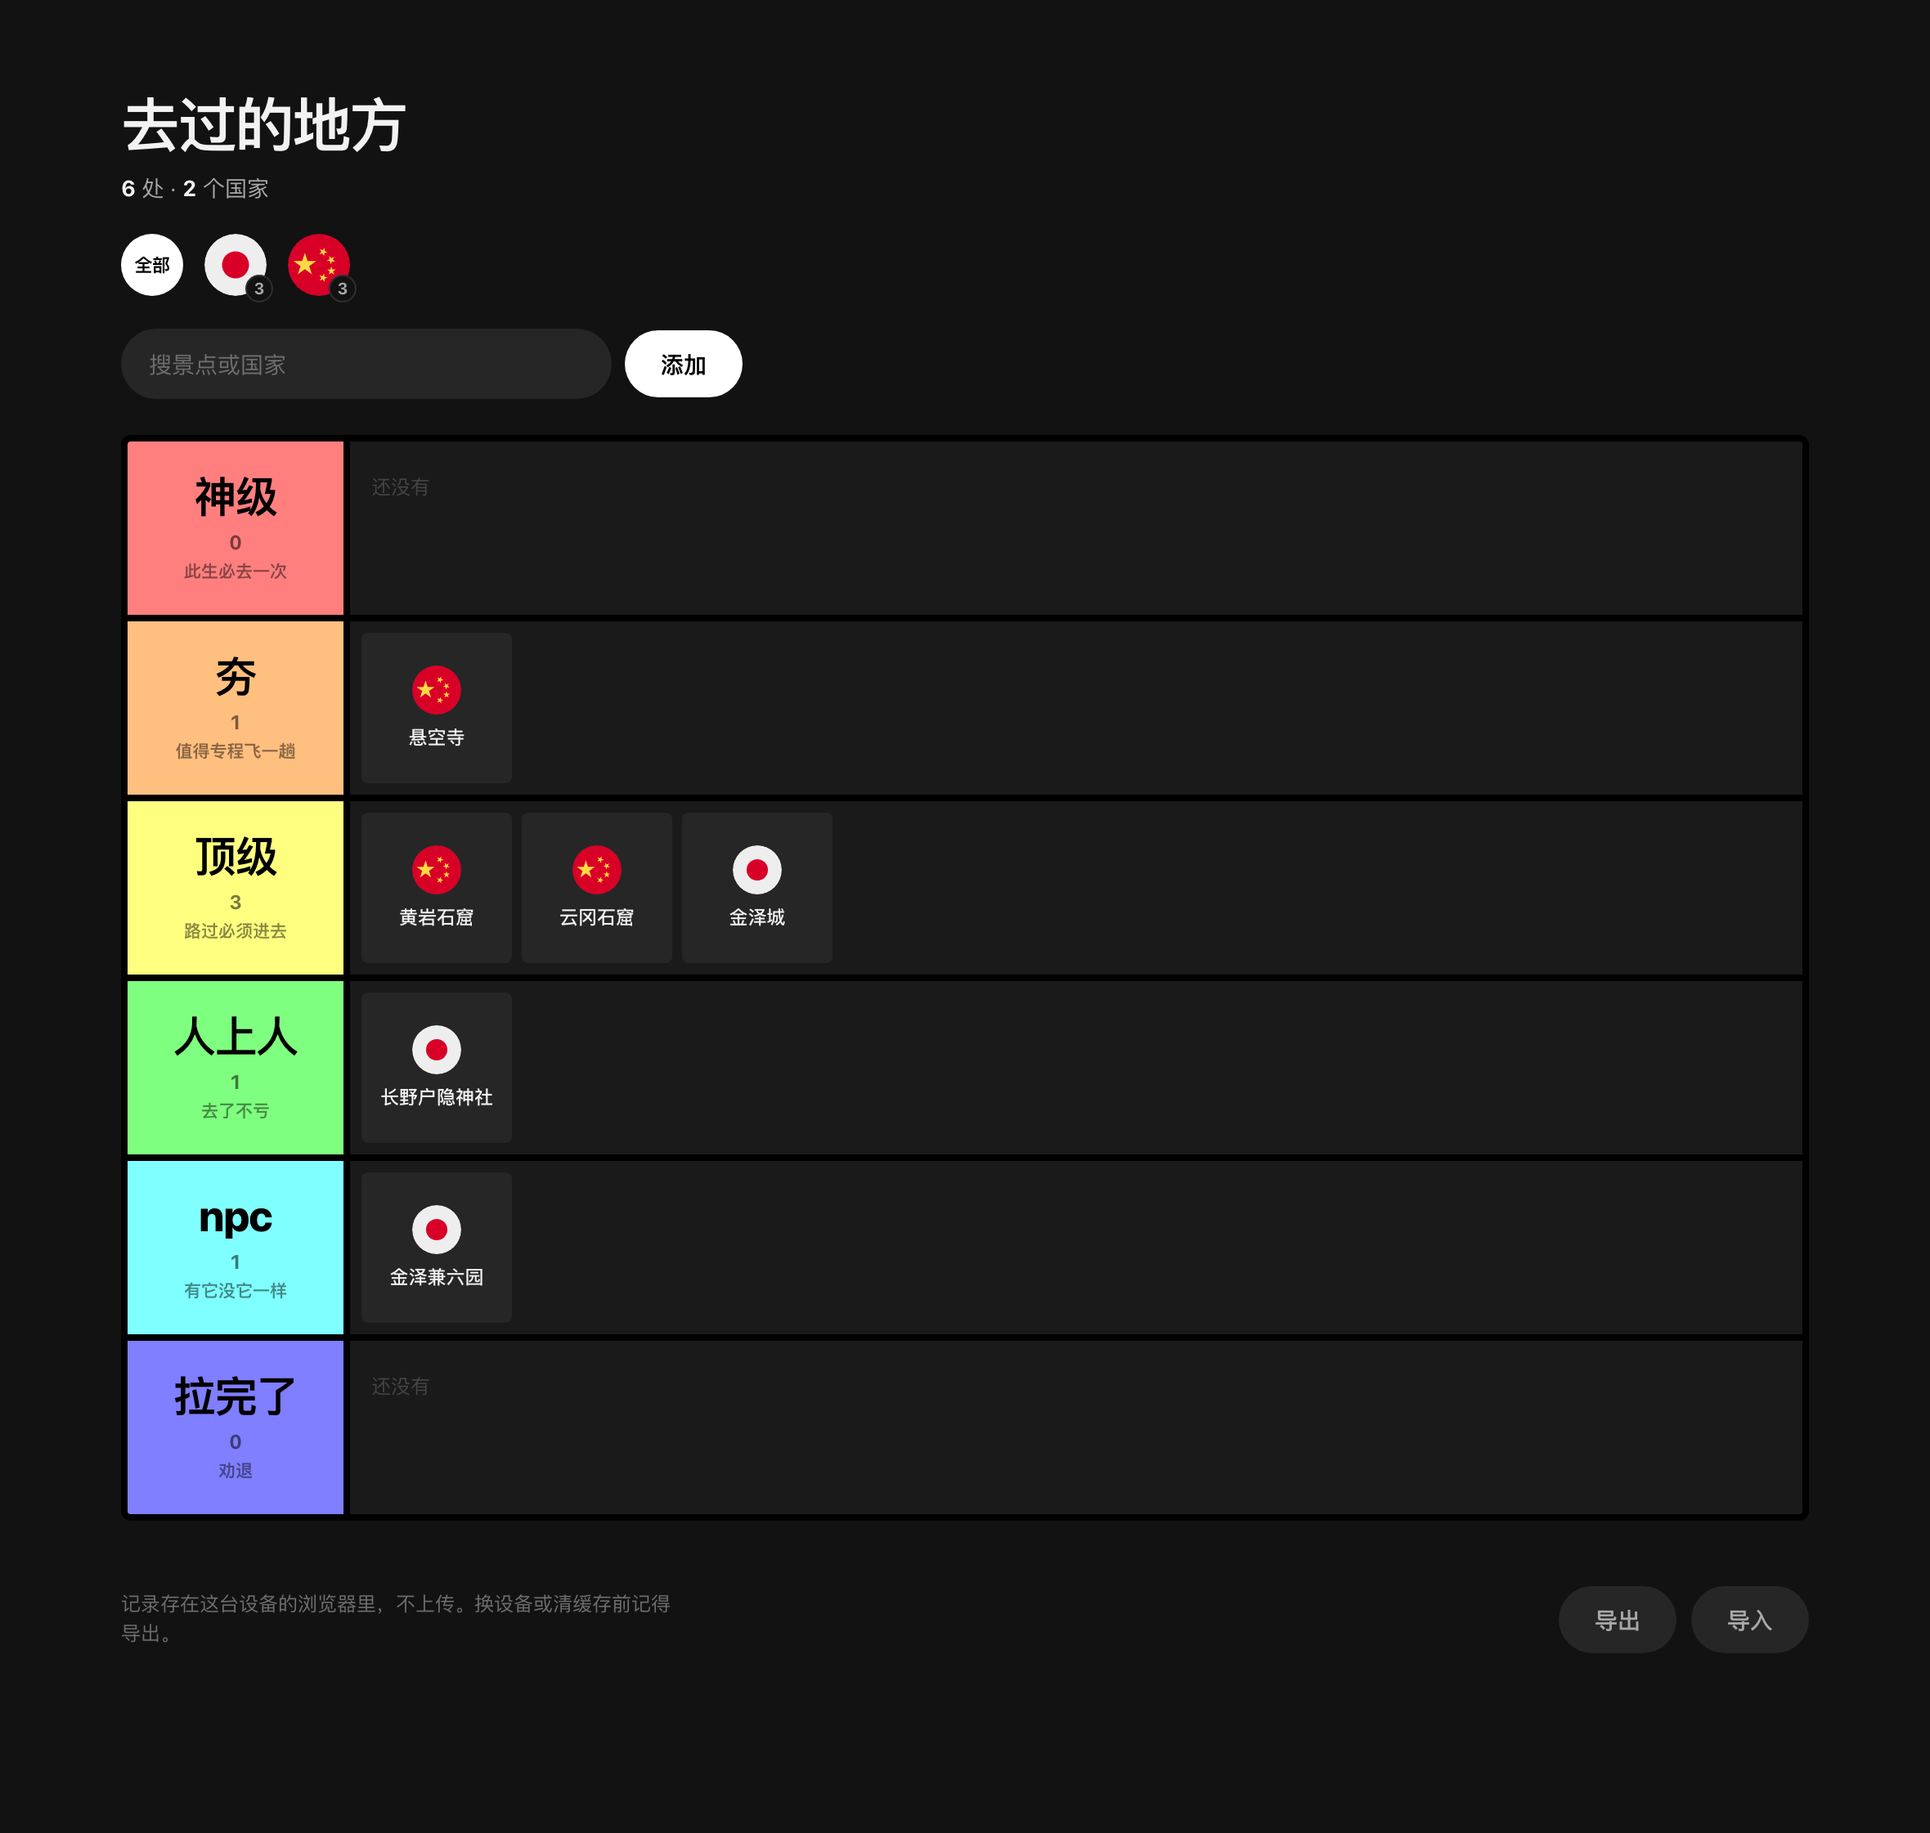
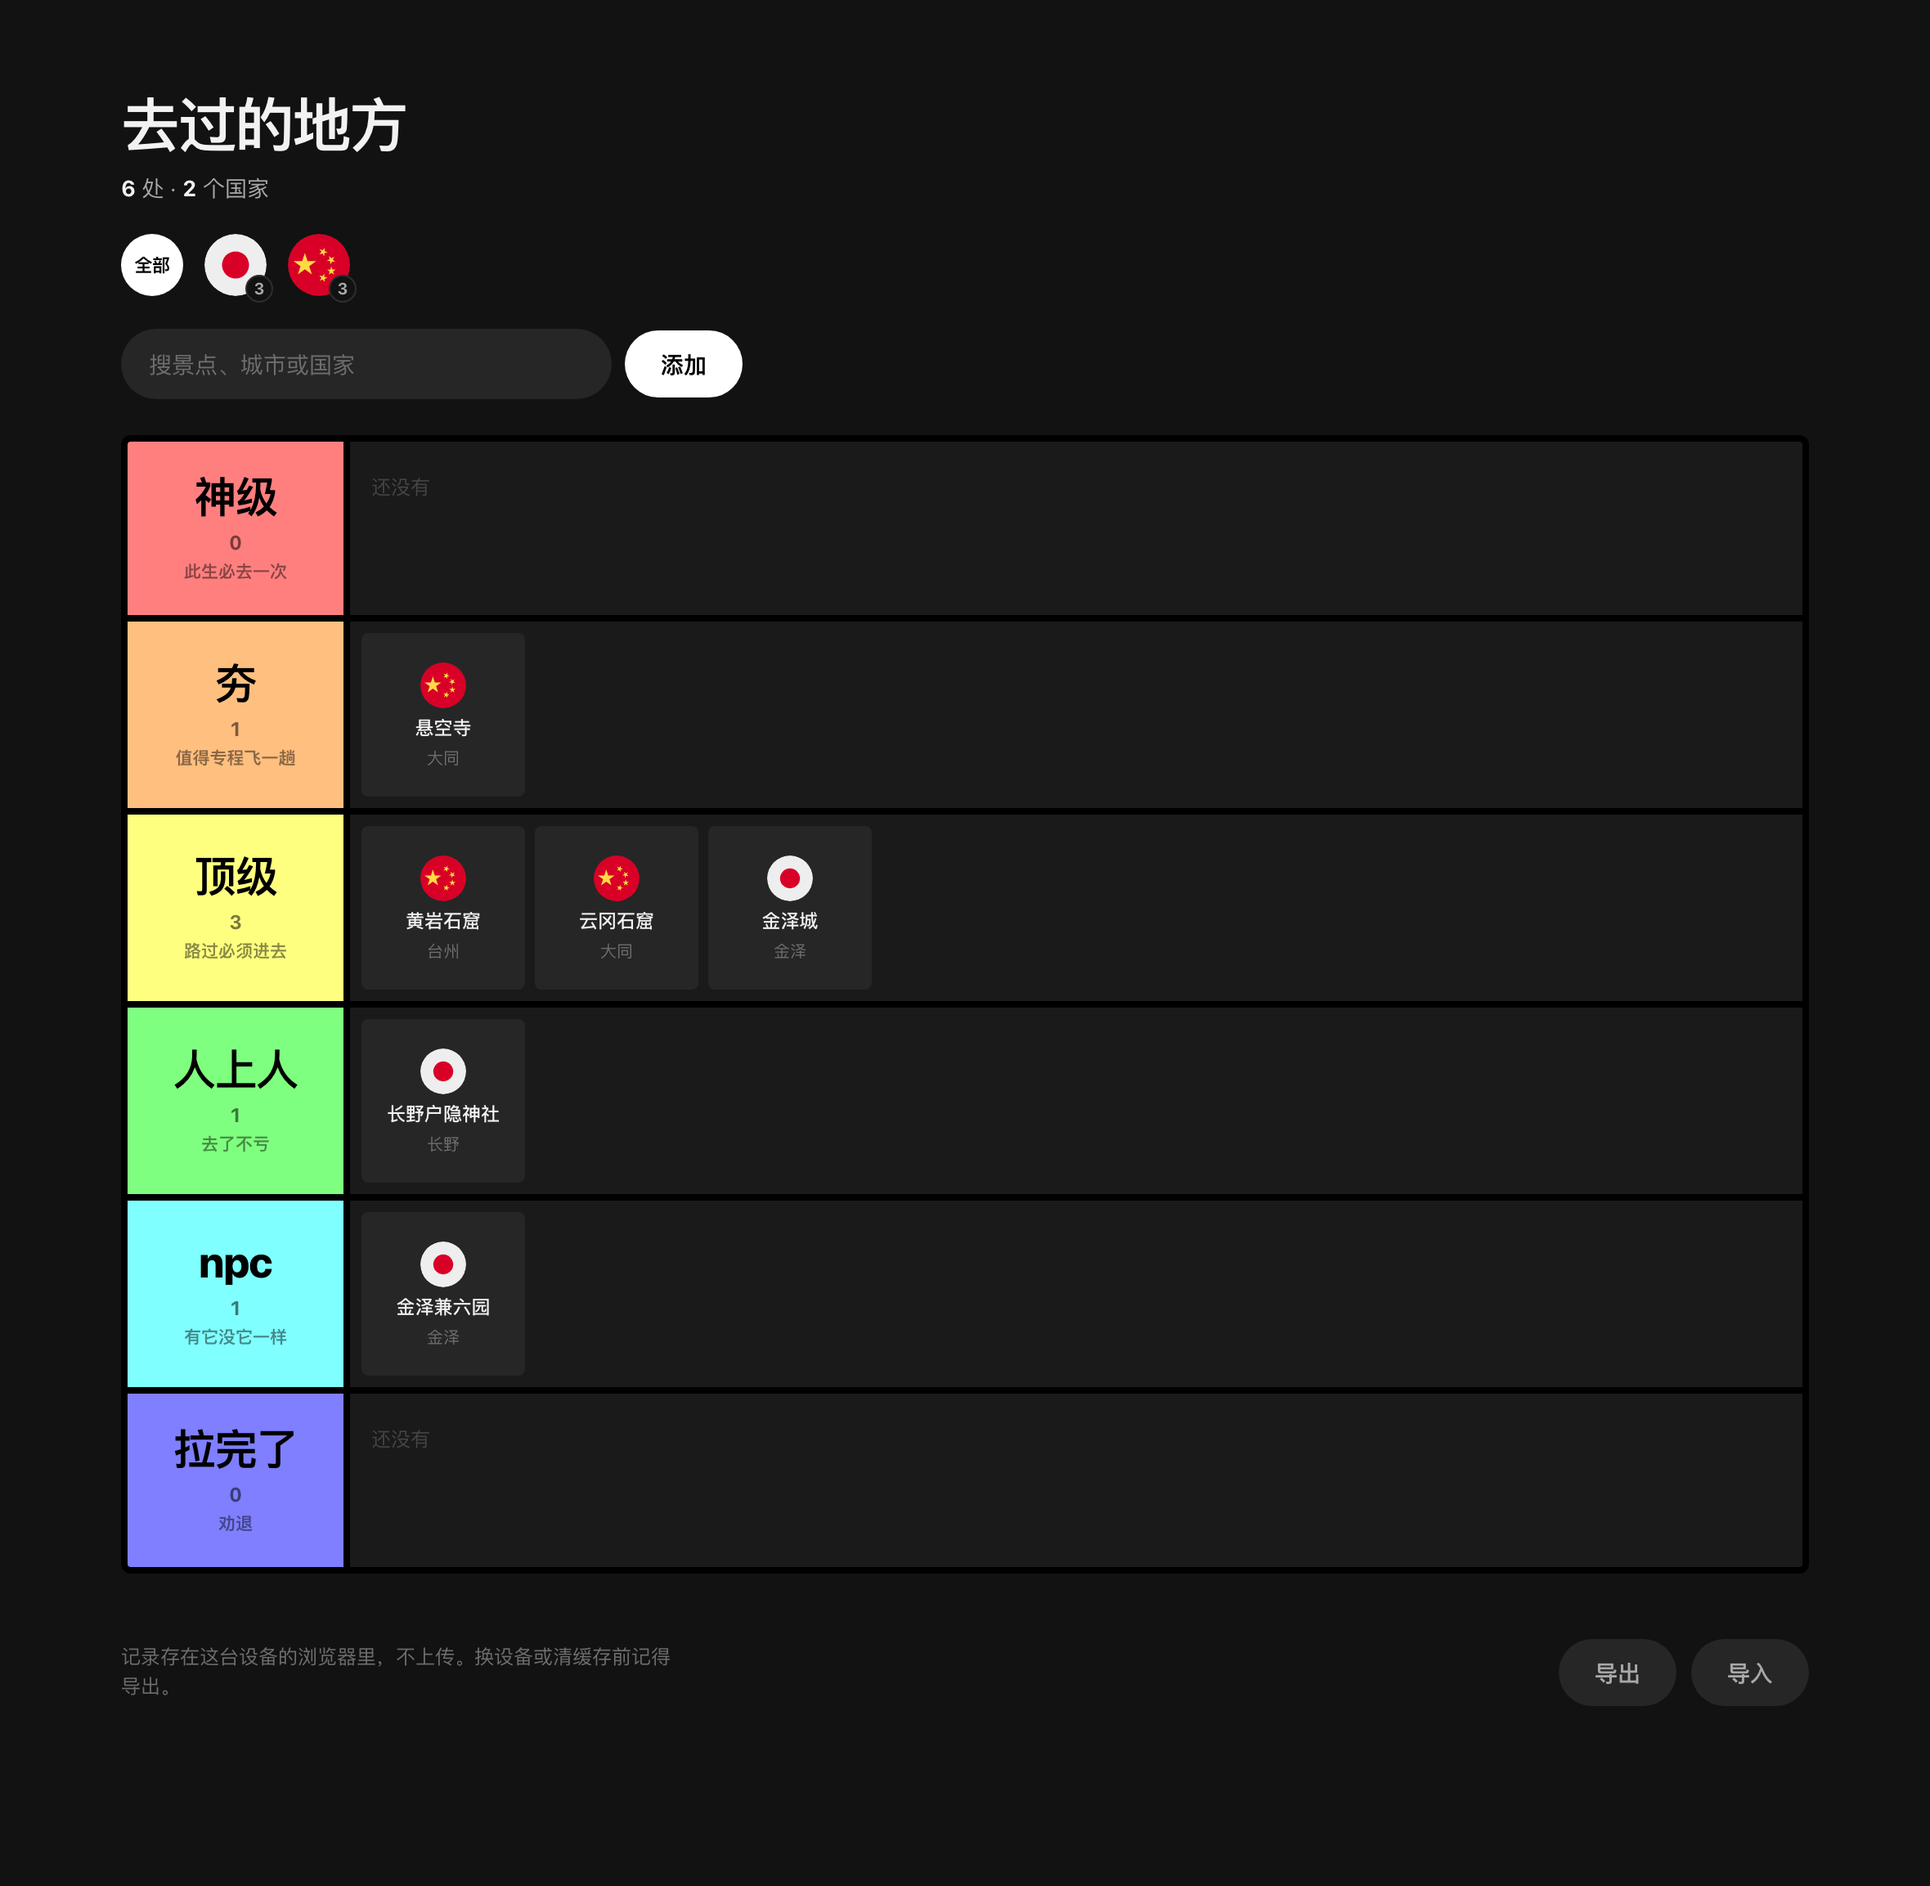
每条记录加上城市
6 条已填好：黄岩石窟—台州、云冈石窟—大同、悬空寺—大同、
长野户隐神社—长野、金泽城—金泽、金泽兼六园—金泽。

- 数据模型加 city，spots.js / 草稿 / 导出的 spots.js 都带上
- 方块从 92×92 放大到 100×100，国旗下方名称、名称下方城市（小一号、灰）
  移动端 88×92
- 弹窗加「城市」输入框，搜索把城市一并算进去
- 老数据迁移：旧的 where/place（形如「浙江 南京」）取末段升为城市
- 录入模板加「城市」列，并预填现有 6 条

测试加到 55 项全过，新增：每条已发布记录都有城市、方块上渲染城市、
没填城市显示破折号、按城市搜索、城市存进草稿、
超长城市在方块内截断不撑破格子（用够长的串验过确实触发截断）。

diff --git a/index.html b/index.html
@@ -101,16 +101,20 @@
   .lane{background:var(--lane);display:flex;flex-wrap:wrap;gap:6px;padding:7px;
         align-content:flex-start;min-height:106px}
   .tile{
-    width:92px;height:92px;background:var(--tile);border:0;border-radius:4px;cursor:pointer;
-    display:flex;flex-direction:column;align-items:center;justify-content:center;gap:7px;
+    width:100px;height:100px;background:var(--tile);border:0;border-radius:4px;cursor:pointer;
+    display:flex;flex-direction:column;align-items:center;justify-content:center;gap:5px;
     padding:7px 5px;transition:background .12s;
   }
   .tile:hover{background:var(--tile-h)}
-  .tile .flag{width:30px;height:30px;border-radius:50%;flex:none;background:var(--tile-h)}
+  .tile .flag{width:28px;height:28px;border-radius:50%;flex:none;background:var(--tile-h)}
   .tile .nm{
     font-size:11.5px;line-height:1.25;color:var(--ink);text-align:center;font-weight:500;
     display:-webkit-box;-webkit-line-clamp:2;-webkit-box-orient:vertical;overflow:hidden;
     word-break:break-all;width:100%;
+  }
+  .tile .ct{
+    font-size:10px;line-height:1.2;color:var(--ink-3);text-align:center;width:100%;
+    white-space:nowrap;overflow:hidden;text-overflow:ellipsis;
   }
   .ph{display:grid;place-items:center;font-size:13px;font-weight:700;color:var(--ink-3)}
   .empty{align-self:center;font-size:12px;color:#454545;padding-left:6px}
@@ -165,7 +169,7 @@
     .label .nm{font-size:19px}
     .label .blurb{display:none}
     .lane{min-height:96px;gap:5px;padding:5px}
-    .tile{width:80px;height:80px}
+    .tile{width:88px;height:92px}
     .picker{grid-template-columns:repeat(3,1fr)}
   }
   @media (prefers-reduced-motion:reduce){*{transition:none!important}}
@@ -179,7 +183,7 @@
     <p class="counts"><b id="n-spots">0</b> 处 · <b id="n-countries">0</b> 个国家</p>
     <div class="wall" id="wall" role="group" aria-label="按国家筛选"></div>
     <div class="bar">
-      <input type="search" id="find" placeholder="搜景点或国家" aria-label="搜索">
+      <input type="search" id="find" placeholder="搜景点、城市或国家" aria-label="搜索">
       <button class="btn primary" id="add">添加</button>
     </div>
     <div class="draft" id="draft" hidden>
@@ -209,6 +213,10 @@
     <div class="field">
       <label for="f-name">名称</label>
       <input type="text" id="f-name" required maxlength="48" placeholder="黄岩石窟" autocomplete="off">
+    </div>
+    <div class="field">
+      <label for="f-city">城市</label>
+      <input type="text" id="f-city" maxlength="24" placeholder="台州" autocomplete="off">
     </div>
     <div class="field">
       <label for="f-country">国家</label>
@@ -283,7 +291,7 @@
   var pick = "";
 
   function hashOf(list){
-    var str = JSON.stringify(list.map(function(x){ return [x.name, x.country, x.tier]; }));
+    var str = JSON.stringify(list.map(function(x){ return [x.name, x.city, x.country, x.tier]; }));
     var h = 5381;
     for(var i=0;i<str.length;i++){ h = ((h<<5) + h + str.charCodeAt(i)) | 0; }
     return String(h);
@@ -313,11 +321,13 @@
   /* 老版本有 place/where（地点）、date/when（时间）、note/said（一句话），已全部取消，读进来即丢弃。
      老记录没有国家，但凡有过地点的一律按中国处理，不对的点开改一下。 */
   function migrate(s){
-    var hadPlace = !!(s.where || s.place);
+    var legacy = String(s.where || s.place || "").trim();   /* 老字段形如「浙江 台州」 */
+    var parts = legacy ? legacy.split(/[\s　]+/) : [];
     return {
       id: s.id || ("p" + (++seq) + "-" + Math.random().toString(36).slice(2,6)),
       name: String(s.name || "未命名"),
-      country: String(s.country || (hadPlace ? "中国" : "")),
+      city: String(s.city || (parts.length ? parts[parts.length - 1] : "")),
+      country: String(s.country || (legacy ? "中国" : "")),
       tier: isTier(s.tier) ? s.tier : "npc"
     };
   }
@@ -335,7 +345,7 @@
 
   function bare(list){
     return list.map(function(s){
-      return { name:s.name, country:s.country, tier:s.tier };
+      return { name:s.name, city:s.city, country:s.country, tier:s.tier };
     });
   }
 
@@ -347,6 +357,7 @@
            "window.SPOTS = [\n" +
            list.map(function(s){
              return '  { "name": ' + JSON.stringify(s.name) +
+                    ', "city": ' + JSON.stringify(s.city) +
                     ', "country": ' + JSON.stringify(s.country) +
                     ', "tier": ' + JSON.stringify(s.tier) + ' }';
            }).join(",\n") + "\n];\n";
@@ -402,7 +413,7 @@
     return spots.filter(function(s){
       if(pick && (s.country || "未填") !== pick) return false;
       if(!q) return true;
-      return (s.name + " " + s.country).toLowerCase().indexOf(q) > -1;
+      return (s.name + " " + s.city + " " + s.country).toLowerCase().indexOf(q) > -1;
     });
   }
 
@@ -415,10 +426,12 @@
       var tiles = mine.length
         ? mine.map(function(s){
             return '<button type="button" class="tile" data-open="' + s.id + '"' +
-              ' title="' + esc(s.name + (s.country ? "　" + s.country : "")) + '"' +
-              ' aria-label="' + esc(s.name + "，" + (s.country||"未填") + "，" + t.name + "，打开详情") + '">' +
-              flagHtml(s.country, "flag", 30) +
+              ' title="' + esc([s.name, s.city, s.country].filter(Boolean).join("　")) + '"' +
+              ' aria-label="' + esc(s.name + "，" +
+                  [s.city, s.country].filter(Boolean).join(" ") + "，" + t.name + "，打开详情") + '">' +
+              flagHtml(s.country, "flag", 28) +
               '<span class="nm">' + esc(s.name) + '</span>' +
+              '<span class="ct">' + esc(s.city || "—") + '</span>' +
             '</button>';
           }).join("")
         : '<p class="empty">' + (filtering ? "没有匹配的" : "还没有") + '</p>';
@@ -482,6 +495,7 @@
   var form = document.getElementById("form");
   // form.name 会被 HTMLFormElement 自身的 name 属性遮蔽，一律按 id 取
   var fName    = document.getElementById("f-name");
+  var fCity    = document.getElementById("f-city");
   var fCountry = document.getElementById("f-country");
   var killBtn  = document.getElementById("kill");
   var dlgFlag  = document.getElementById("dlg-flag");
@@ -505,6 +519,7 @@
     editingId = spot ? spot.id : null;
     document.getElementById("dlg-title").textContent = spot ? spot.name : "添加景点";
     fName.value    = spot ? spot.name    : "";
+    fCity.value    = spot ? spot.city    : "";
     fCountry.value = spot ? spot.country : "";
     var r = form.querySelector('input[name=tier][value="' + (spot ? spot.tier : "top") + '"]');
     if(r) r.checked = true;
@@ -517,6 +532,7 @@
   form.addEventListener("submit", function(){
     var data = {
       name:    fName.value.trim(),
+      city:    fCity.value.trim(),
       country: fCountry.value.trim(),
       tier:    (form.querySelector("input[name=tier]:checked")||{}).value || "npc"
     };

diff --git a/spots.js b/spots.js
@@ -2,10 +2,10 @@
    tier 取 shen / hang / top / ren / npc / la
    （神级 / 夯 / 顶级 / 人上人 / npc / 拉完了） */
 window.SPOTS = [
-  { "name": "黄岩石窟", "country": "中国", "tier": "top" },
-  { "name": "云冈石窟", "country": "中国", "tier": "top" },
-  { "name": "悬空寺", "country": "中国", "tier": "hang" },
-  { "name": "长野户隐神社", "country": "日本", "tier": "ren" },
-  { "name": "金泽城", "country": "日本", "tier": "top" },
-  { "name": "金泽兼六园", "country": "日本", "tier": "npc" }
+  { "name": "黄岩石窟",     "city": "台州", "country": "中国", "tier": "top" },
+  { "name": "云冈石窟",     "city": "大同", "country": "中国", "tier": "top" },
+  { "name": "悬空寺",       "city": "大同", "country": "中国", "tier": "hang" },
+  { "name": "长野户隐神社", "city": "长野", "country": "日本", "tier": "ren" },
+  { "name": "金泽城",       "city": "金泽", "country": "日本", "tier": "top" },
+  { "name": "金泽兼六园",   "city": "金泽", "country": "日本", "tier": "npc" }
 ];

diff --git a/README.md b/README.md
@@ -8,7 +8,7 @@
 
 > 上图是示例渲染。真实清单在 `spots.js` 里。
 
-每条记录两个字段：**名称**和**国家**。
+每条记录三个字段：**名称**、**城市**和**国家**。
 
 ## 版式
 
@@ -40,7 +40,7 @@
 | 添加 | 右上角「添加」 |
 | 看详情 / 改 / 删 | 点方块本身，在弹窗里操作 |
 | 按国家筛选 | 点顶部的国旗，再点一次取消 |
-| 搜索 | 搜索框，名称和国家都能搜 |
+| 搜索 | 搜索框，名称、城市、国家都能搜 |
 | 备份 / 恢复 | 页脚的导出、导入 |
 
 填国家时输入框带候选列表，认得出的国家会在弹窗标题旁实时显示国旗。
@@ -52,7 +52,7 @@
 
 ```js
 window.SPOTS = [
-  { "name": "黄岩石窟", "country": "中国", "tier": "top" }
+  { "name": "黄岩石窟", "city": "台州", "country": "中国", "tier": "top" }
 ];
 ```
 
